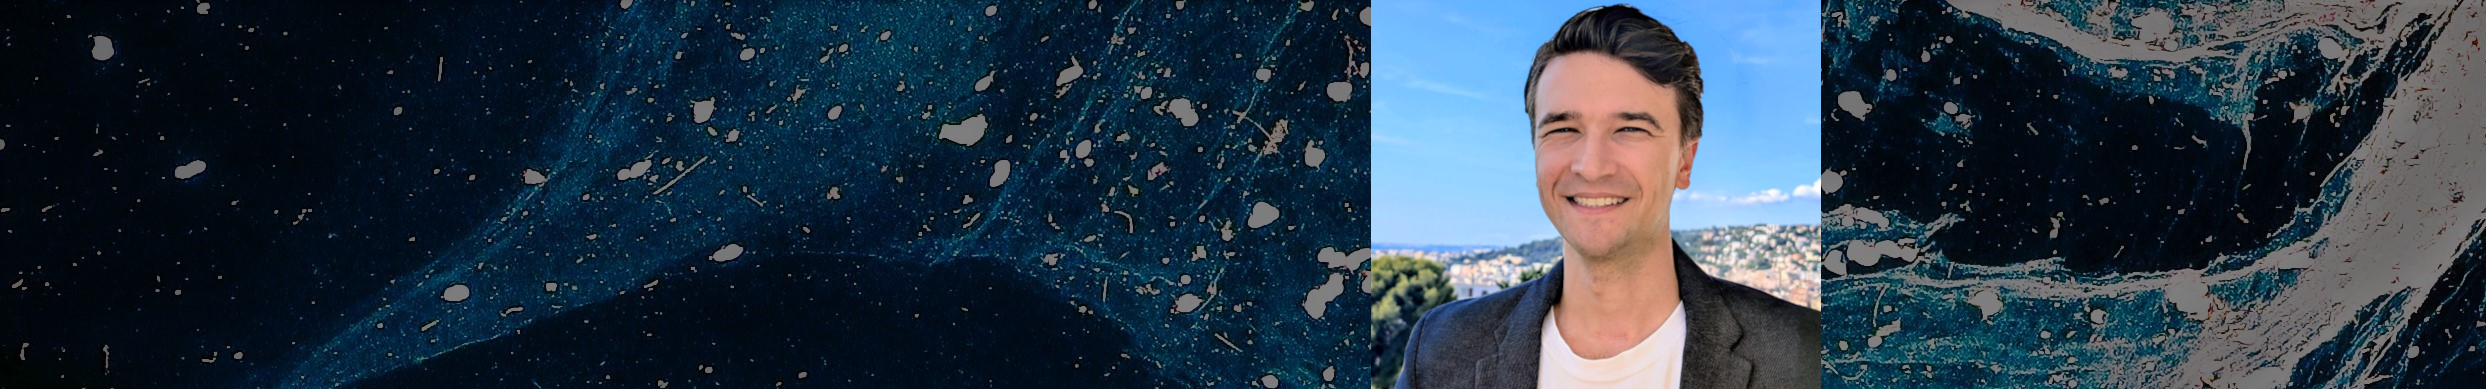
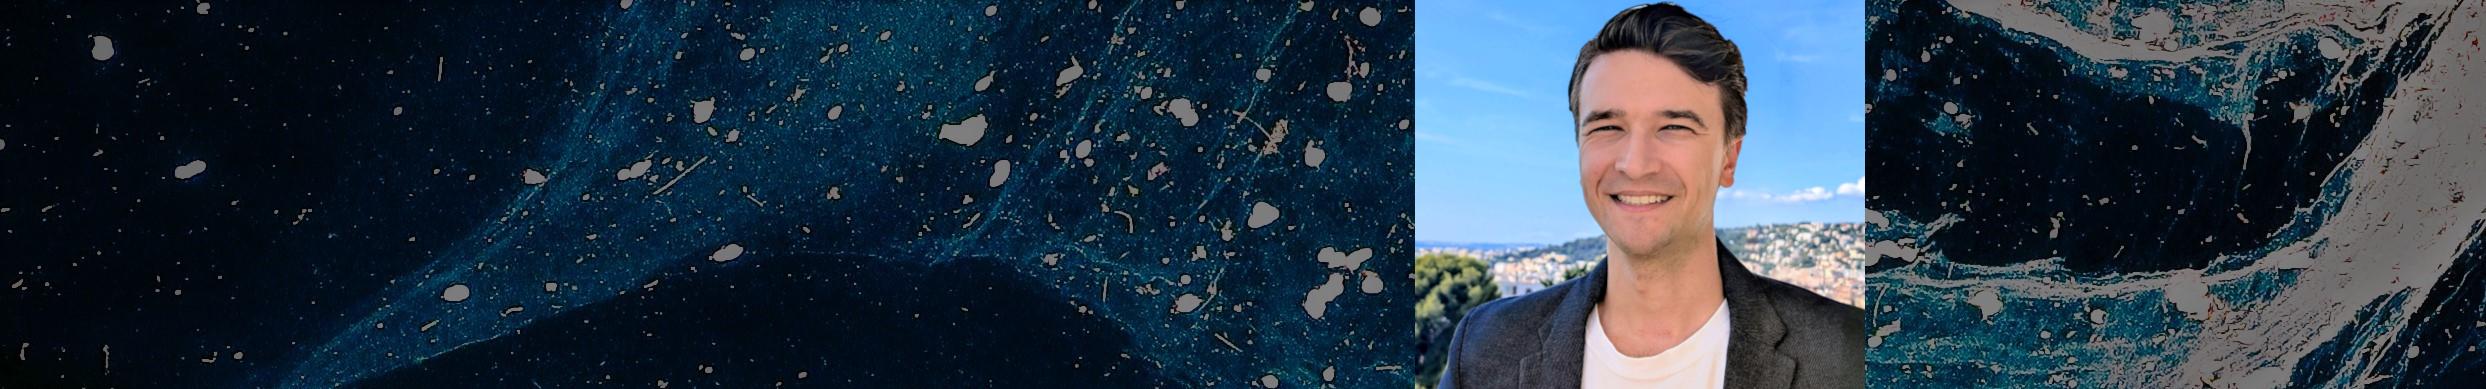
add patent, adjust images, add cert to about

Changed region(s): [[0.5265, 0.0, 0.7743, 1.0]]

diff --git a/_pages/patents.md b/_pages/patents.md
@@ -1,0 +1,20 @@
+---
+permalink: /patents/
+title: "Patents"
+layout: "splash"
+header:
+    overlay_image: /assets/images/home_banner.png
+---
+
+## 🧠 Patent: Laser Management Server and Laser Management Method
+
+**Inventors:** Jacob Peter Strock, Yuji Minegishi  
+**Submission Date:** February 4, 2025  
+**Patent Office:** United States (US)  
+**Application Number:** 20250291338
+
+### 📄 Description
+A laser management service for maintenance of lasers used in semiconductor lithography using LLM agents. Together, components enable **autonomous query handling, intelligent response generation, and precise control of laser systems** through integration of agent processing and large language models.
+
+### Abstract
+A laser management server for a laser device includes a sending and receiving processor receiving a query from outside; a query input processor receiving and decomposing the query, and generating a first query item requiring external information and a second query item without requiring external information; an agent action processor receiving the first query item, acquiring the required external information from unstructured data and structured data, and generating a first agent response; an equipment agent processor receiving the second query item, receiving the first agent response, and generating a query item prompt related to the second query item; a large language model processor receiving the query item prompt, and generating a query item response; and an equipment control processor receiving a first control signal, and transmitting the first control signal to the laser device. The equipment agent processor receives the query item response and generate the first control signal.

diff --git a/_pages/about.md b/_pages/about.md
@@ -3,7 +3,7 @@ permalink: /about/
 title: "About"
 layout: "splash"
 header:
-    overlay_image: /assets/images/banner_w_headshot2.png
+    overlay_image: /assets/images/home_banner.png
 ---
 
 ---
@@ -14,9 +14,10 @@ header:
 * __Master of Science in Statistics__
     * University of Rhode Island, Dept. of Computer Science and Statistics
     * Thesis: _Investigating Physical, Chemical, and Biological Changes in Narragansett Bay using Bayesian Multivariate Dynamic Linear models_
+* [__Fabric Data Engineer Associate__](https://learn.microsoft.com/en-us/users/jacobstrock-6718/credentials/e24640a8236cba8e?ref=https%3A%2F%2Fwww.linkedin.com%2F)
 * [__Azure Data Engineer Associate__](https://learn.microsoft.com/en-us/users/jacobstrock-6718/credentials/7be3a56b7da58796?ref=https%3A%2F%2Fwww.linkedin.com%2F) 
 * [__Azure Data Scientist Associate__](https://learn.microsoft.com/en-us/users/jacobstrock-6718/credentials/7b6959a6becd89a?ref=https%3A%2F%2Fwww.linkedin.com%2F)
-* [__IBM AI engineering Certification__](https://coursera.org/share/1e1324a784a999c740d91e983d8d6e36) 
+* [__IBM AI Engineering Certification__](https://coursera.org/share/1e1324a784a999c740d91e983d8d6e36) 
 
 ---
 
@@ -32,14 +33,11 @@ In addition to this training, I have had the privilege to work in the following 
 * Detection of fraudulent pharmaceutical drugs
 * Oceanographic exploration
 
-
 ---
 
 <p align="center">
     <img src="/assets/images/Helicopter_photo.jpg" width="75%">
 </p>
-
-*My research career has taken me around the globe to solve unique problems. Here I am on a research expedition through the Northwest Passage*
 
 ---
 
